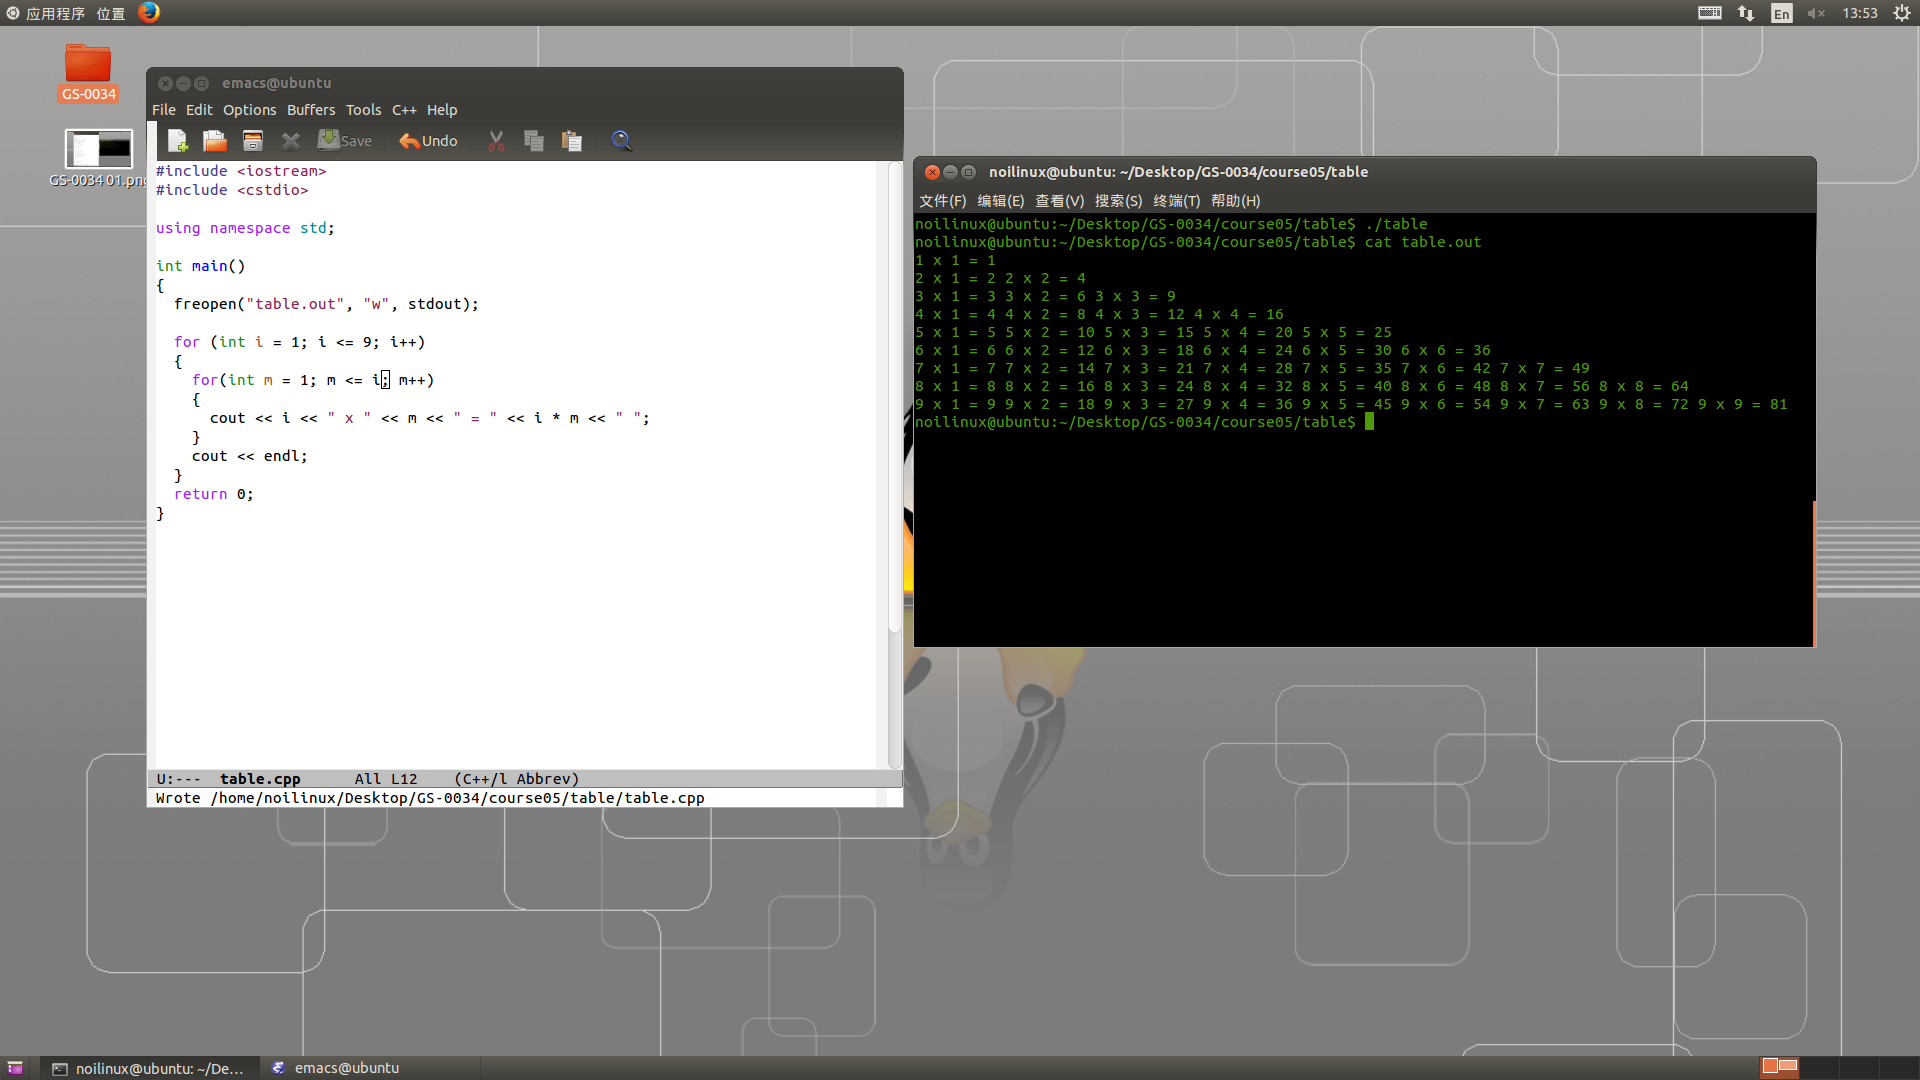
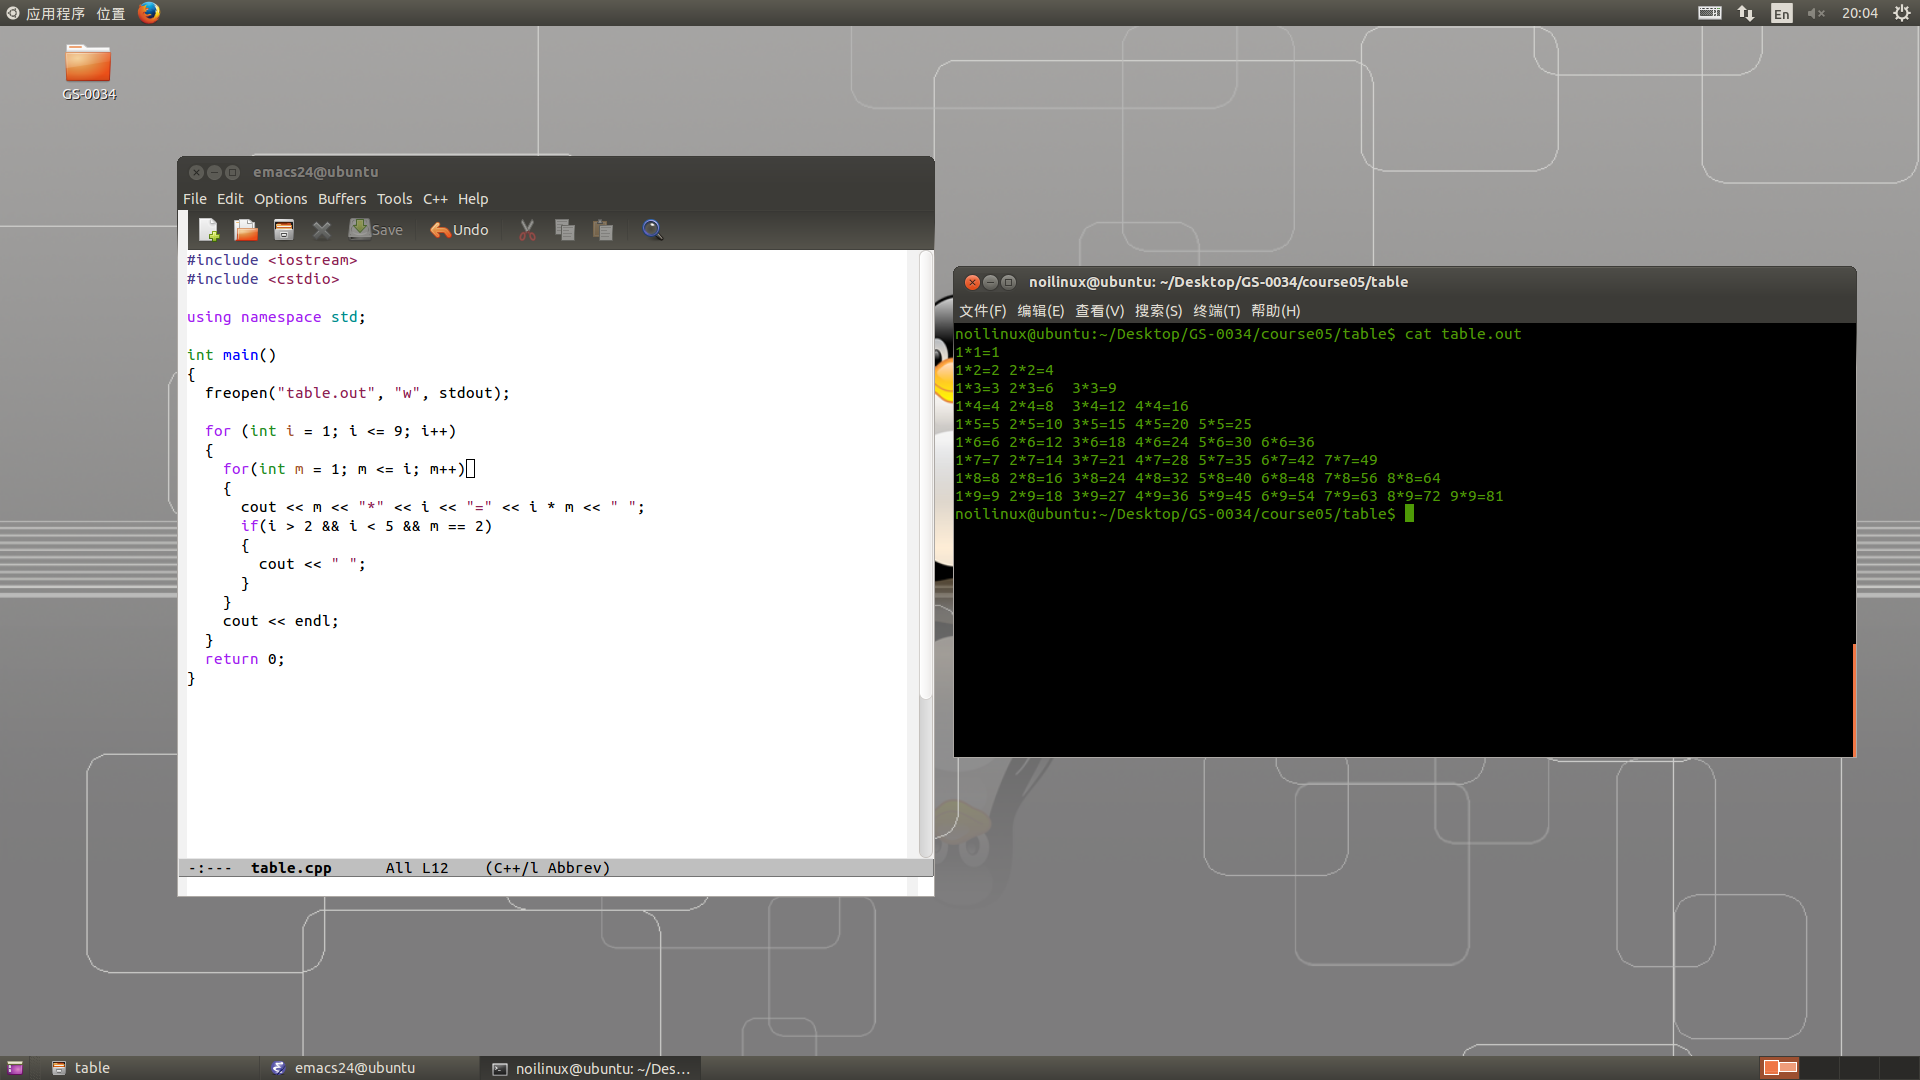
Update2019年01月20日21时47分07秒

diff --git a/05/HomeWork/tree/tree.cpp b/05/HomeWork/tree/tree.cpp
@@ -6,23 +6,24 @@ using namespace std;
 int main()
 {
   freopen("tree.out", "w", stdout);
-  
+
+  // Last Method
+
   int i, m, k; 
+  char cde[7][7] = {'\0'};
 
   for (i = 1; i <= 4; i++) 
   {
  
     for (m = 1; m <= 4 - i; m++) 
     { 
-      cout << " ";
+      cde[i - 1][m - 1] = ' ';
     }
 
     for (k = 1; k <= 2 * i - 1; k++) 
     {
-      cout << "*";
+      cde[i - 1][m + k - 2] = '*';
     }
-
-    cout << endl;
 
   }
 
@@ -31,42 +32,27 @@ int main()
 
     for (m = 1; m <= i; m++) 
     {
-      cout << " ";
+      cde[i + 3][m - 1] = ' ';
     }
 
     for (k = 1; k <= 7 - 2 * i; k++)
     {
-      cout << "*";
+      cde[i + 3][m + k - 2] = '*';
     } 
-
-    cout << endl;
     
   }
-
-  cout << endl;
-
-  // Another Method
-
-  char cde[7][7] = {
-
-    {' ', ' ', ' ', '*', ' ', ' ', ' '},
-    {' ', ' ', '*', '*', '*', ' ', ' '},
-    {' ', '*', '*', '*', '*', '*', ' '},
-    {'*', '*', '*', '*', '*', '*', '*'},
-    {' ', '*', '*', '*', '*', '*', ' '},
-    {' ', ' ', '*', '*', '*', ' ', ' '},
-    {' ', ' ', ' ', '*', ' ', ' ', ' '}
-
-  };
 
   for (int p = 0; p < 7; p++)
   {
     for (int q = 0; q < 7; q++)
     {
-      cout << cde[p][q];
+      if(cde[p][q] != '\0')
+      {
+	cout << cde[p][q];
+      }
+      
     }
     cout << endl;
   }
-
   return 0;
 }

diff --git a/05/HomeWork/table/table.cpp b/05/HomeWork/table/table.cpp
@@ -11,7 +11,11 @@ int main()
   {
     for(int m = 1; m <= i; m++)
     {
-      cout << i << " x " << m << " = " << i * m << " ";
+      cout << m << "*" << i << "=" << i * m << " ";
+      if(i > 2 && i < 5 && m == 2)
+      {
+	cout << " ";
+      }
     }
     cout << endl;
   }
